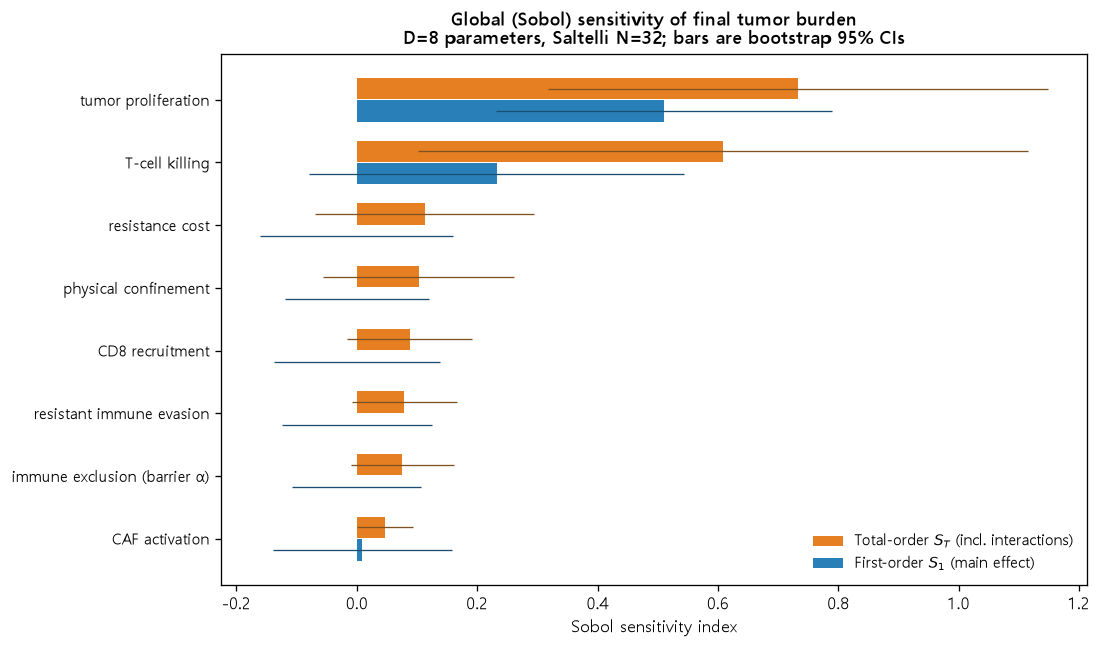
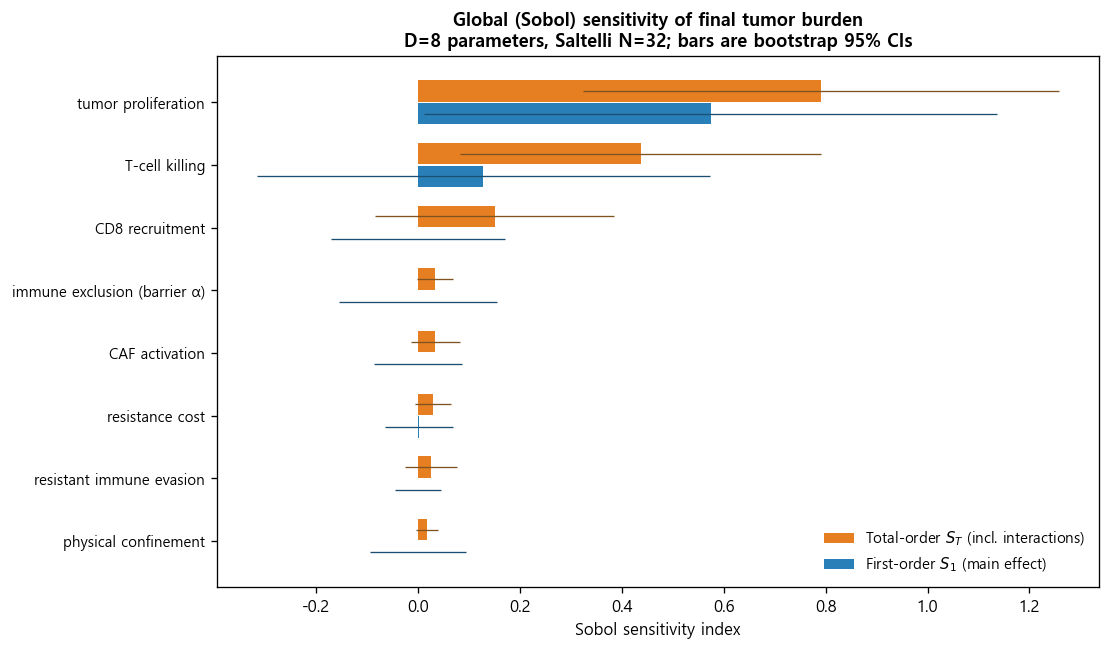
fix(sobol): regenerate DRM-encrypted sobol_indices.csv; update Fig S7 values
The committed sobol_indices.csv was a DRM-wrapped blob (from 7dcac82). The
Saltelli design (D=8, N=32, 1 seed, 320 evals) was re-run with the unchanged
script and Fig S7 redrawn with `sobol_analysis.py replot` (final burden only).

SALib >=1.4 draws a scrambled, unseeded Sobol sample, so the indices move
between runs at this screening sample size. New values (final tumor burden):
  tumor proliferation   S_T 0.73 -> 0.79
  T-cell killing        S_T 0.61 -> 0.44, S_1 0.23 -> 0.13
  barrier/resistance    S_T <=0.12 -> <=0.04
The old values lie inside the new bootstrap 95% CIs, and every qualitative
claim is unchanged (same top-two ranking; killing acts through interactions;
barrier/resistance terms contribute little to global burden variance).

Updated: §4.5 sensitivity paragraph, Fig S7 caption, REBUILD_GUIDE §8,
HANDOFF. Also corrects the future-work sentence that called the immune-barrier
terms "dominant" in the Sobol analysis; the dominant terms are proliferation
and T-cell killing.

diff --git a/docs/manuscript/manuscript.md b/docs/manuscript/manuscript.md
@@ -882,10 +882,10 @@ proliferation and immune-barrier parameters, which therefore require empirical
 calibration, and control was not guaranteed under the most aggressive proliferation
 regimes. A variance-based global (Sobol) analysis over eight parameters concurs and
 sharpens this: for final tumor burden, tumor proliferation (total-order
-$S_T\approx0.73$) and cytotoxic T-cell killing ($S_T\approx0.61$) dominate, with killing
-acting substantially through interactions ($S_T\approx0.61$ vs $S_1\approx0.23$), whereas
+$S_T\approx0.79$) and cytotoxic T-cell killing ($S_T\approx0.44$) dominate, with killing
+acting substantially through interactions ($S_T\approx0.44$ vs $S_1\approx0.13$), whereas
 the barrier parameters—physical confinement and immune exclusion—and the resistance terms
-each contribute little to the *global* variance in burden ($S_T\lesssim0.12$; Fig. S7).
+each contribute little to the *global* variance in burden ($S_T\lesssim0.04$; Fig. S7).
 The barrier parameters matter for *which stromal strategy* is optimal (§3.4) rather than
 for the overall level of burden, which is set by the tumor-versus-immune balance. The wide
 confidence intervals at this screening sample size mean the parameter *ranking*, not the
@@ -988,7 +988,7 @@ Several steps follow directly. Experimentally, the ranked regimens define a low-
 validation ladder—2D PDAC cell-line dose–response and combination/synergy assays, then
 patient-derived organoid screening—prioritizing the anti-CAF-backbone combinations and
 the competitive-release predictions. Computationally, priorities are: parameter
-calibration against experimental rates (especially proliferation and immune-barrier
+calibration against experimental rates (especially proliferation and T-cell killing
 terms, which the global Sobol analysis flags as dominant, Fig. S7); a larger Sobol
 sample with multi-seed replication to tighten the indices beyond the present
 screening-level estimate; a 3D registration pipeline over serial sections to replace 2D
@@ -1109,7 +1109,7 @@ outcome **final tumor burden** on the adaptive-therapy arm (Saltelli sampling, $
 $N=32$; error bars are bootstrap 95% confidence intervals; runaway-growth samples were
 capped at a fixed population for tractability, which only bounds already-progressing
 regimes and does not change their progression classification). Tumor proliferation
-($S_T\approx0.73$) and cytotoxic T-cell killing ($S_T\approx0.61$) dominate; killing acts
+($S_T\approx0.79$) and cytotoxic T-cell killing ($S_T\approx0.44$) dominate; killing acts
 substantially through interactions ($S_T\gg S_1$). The barrier parameters and the
 resistance terms contribute little to the global variance in burden—they govern *which
 stromal strategy* is optimal (§3.4) rather than the overall burden level. Given the wide

diff --git a/docs/REBUILD_GUIDE.md b/docs/REBUILD_GUIDE.md
@@ -201,7 +201,7 @@ A faithful rebuild should reproduce these to within seed noise:
 
 | Analysis | Expected |
 |---|---|
-| Sobol (final burden) | `k_prolif` S_T≈0.73 and `k_kill` S_T≈0.61 dominate; barrier/resistance terms S_T≲0.12 |
+| Sobol (final burden) | `k_prolif` S_T≈0.79 and `k_kill` S_T≈0.44 (S_1≈0.13) dominate; barrier/resistance terms S_T≲0.04 (SALib ≥1.4 samples are scrambled and unseeded, so re-runs move the values within the bootstrap CIs; the ranking is the robust reading) |
 | Dense phase map | keep-stroma robust (P≥0.8) at low immune-exclusion; ~20/36 cells P(keep)≥0.6 |
 | 30-seed Pareto | combinations 30/30 progression-free; single garlic 28/30; wild ginseng 1/30; mugwort/curcumin 0/30 |
 | Monte Carlo | natural-API regimens control in **0–2%** of draws; gemcitabine **96%** |

diff --git a/docs/HANDOFF.md b/docs/HANDOFF.md
@@ -41,7 +41,7 @@ The manuscript has been through a full external-review response. Done and commit
 - **Monte Carlo** over compound effect / exposure weight / bioavailability / synergy
   (`mc_uncertainty.py`) — natural-compound control collapses to 0–2% vs gemcitabine 96%.
 - **Sobol** global SA (`sobol_analysis.py`) — reports **final tumor burden** only
-  (k_prolif ≈0.73, k_kill ≈0.61 dominant); barrier params govern *which strategy*, not burden level.
+  (k_prolif ≈0.79, k_kill ≈0.44 dominant); barrier params govern *which strategy*, not burden level.
 - **CA19-9 observation model** (`obs_model_analysis.py`), **single-agent schedule**
   comparison (`gem_schedule.py`), **spatial predictions** (`predict_geometry.py`,
   `predict_sequence.py`, `predict_biomarker.py`), **well-mixed ablation**
